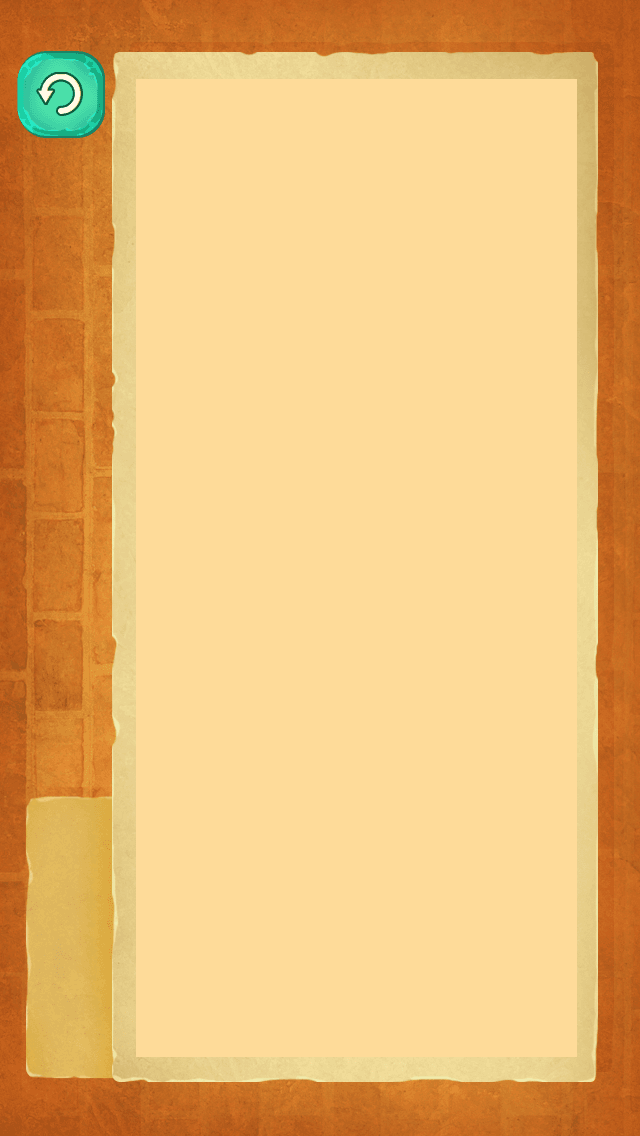
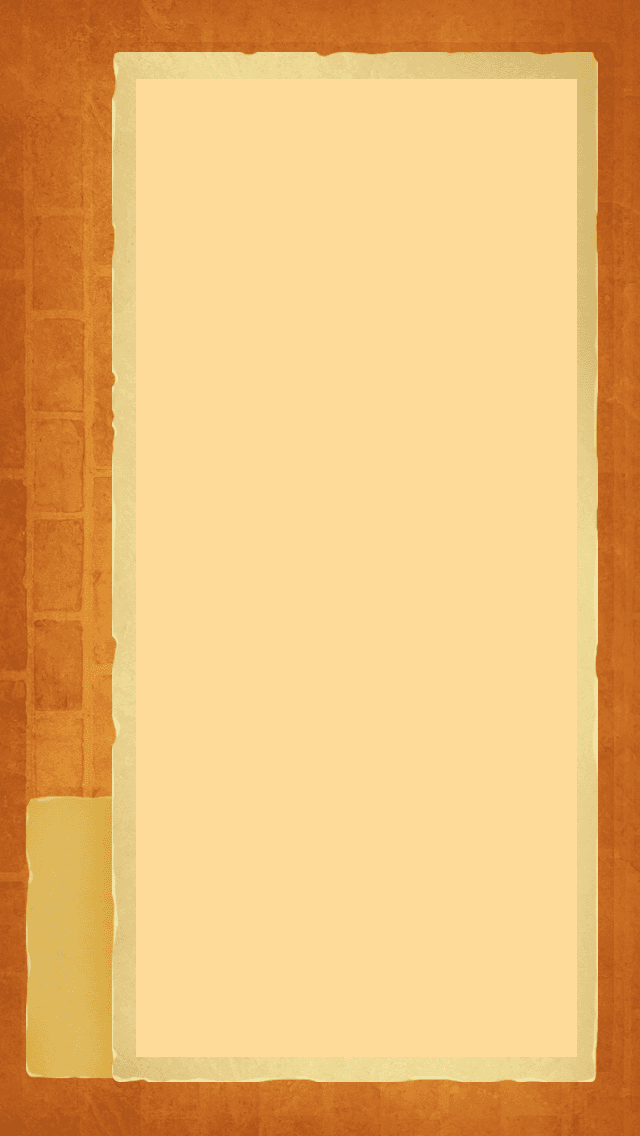
ok

Changed region(s): [[0.0, 0.0308, 0.1875, 0.1232], [0.9062, 0.0616, 0.9375, 0.0924]]

diff --git a/Application/Home/View/Index/index.html b/Application/Home/View/Index/index.html
@@ -47,7 +47,7 @@
 				<img src="__PUBLIC__/src/images/clock/0.png">
 			</div>
 			
-			<div class="restart">asdsa</div>
+			<div class="restart"></div>
 
 		</div>
 

diff --git a/Public/src/css/index.css b/Public/src/css/index.css
@@ -58,6 +58,7 @@ body, html {
   position: absolute;
   left: 2.5%;
   top: 4.6%;
+  z-index: 2;
   background-color: red;
 }
 
